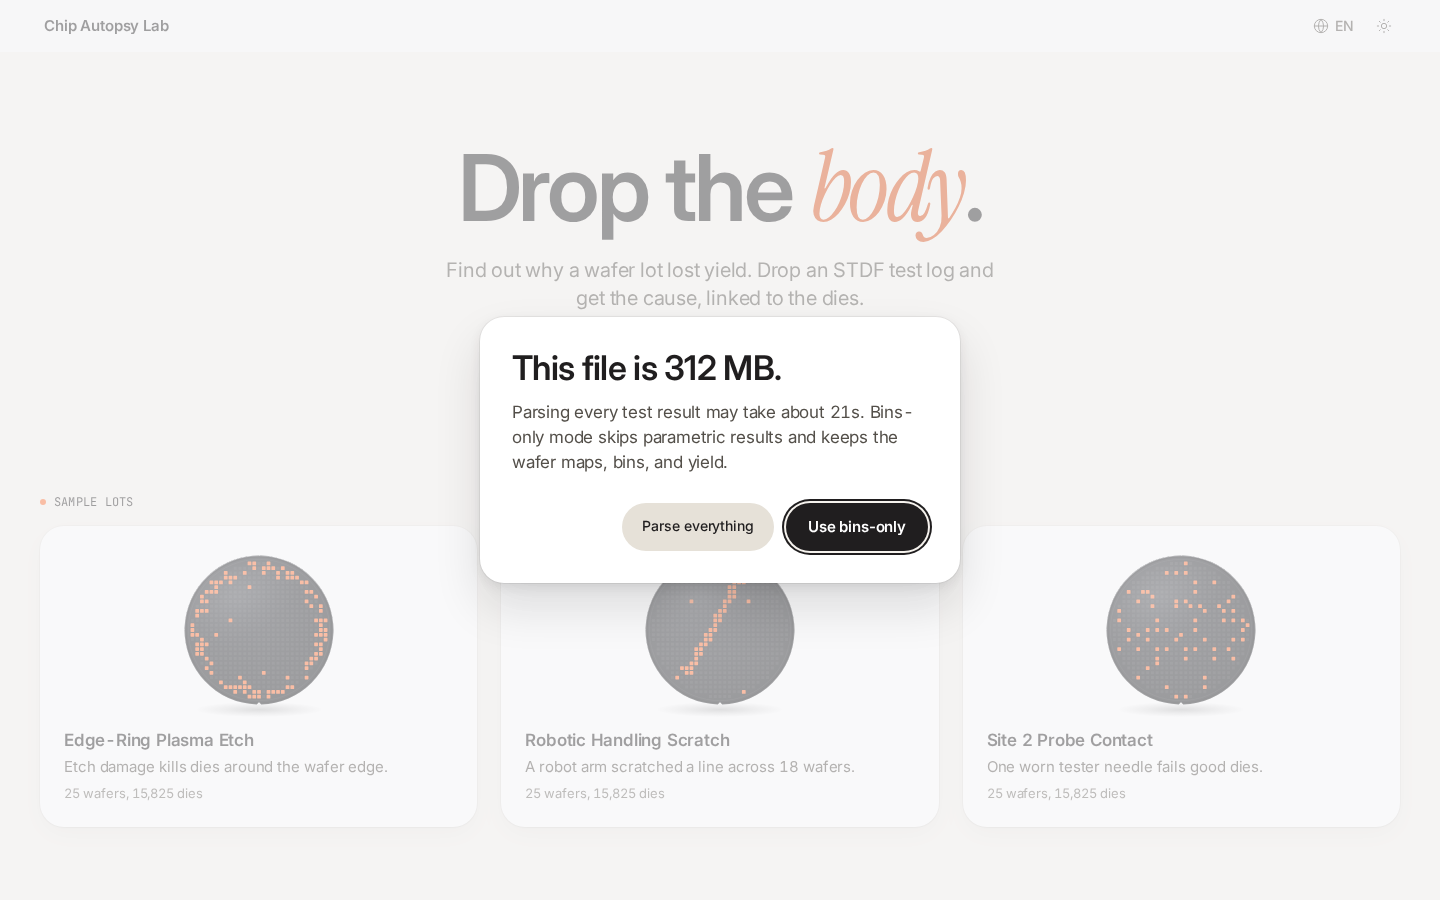
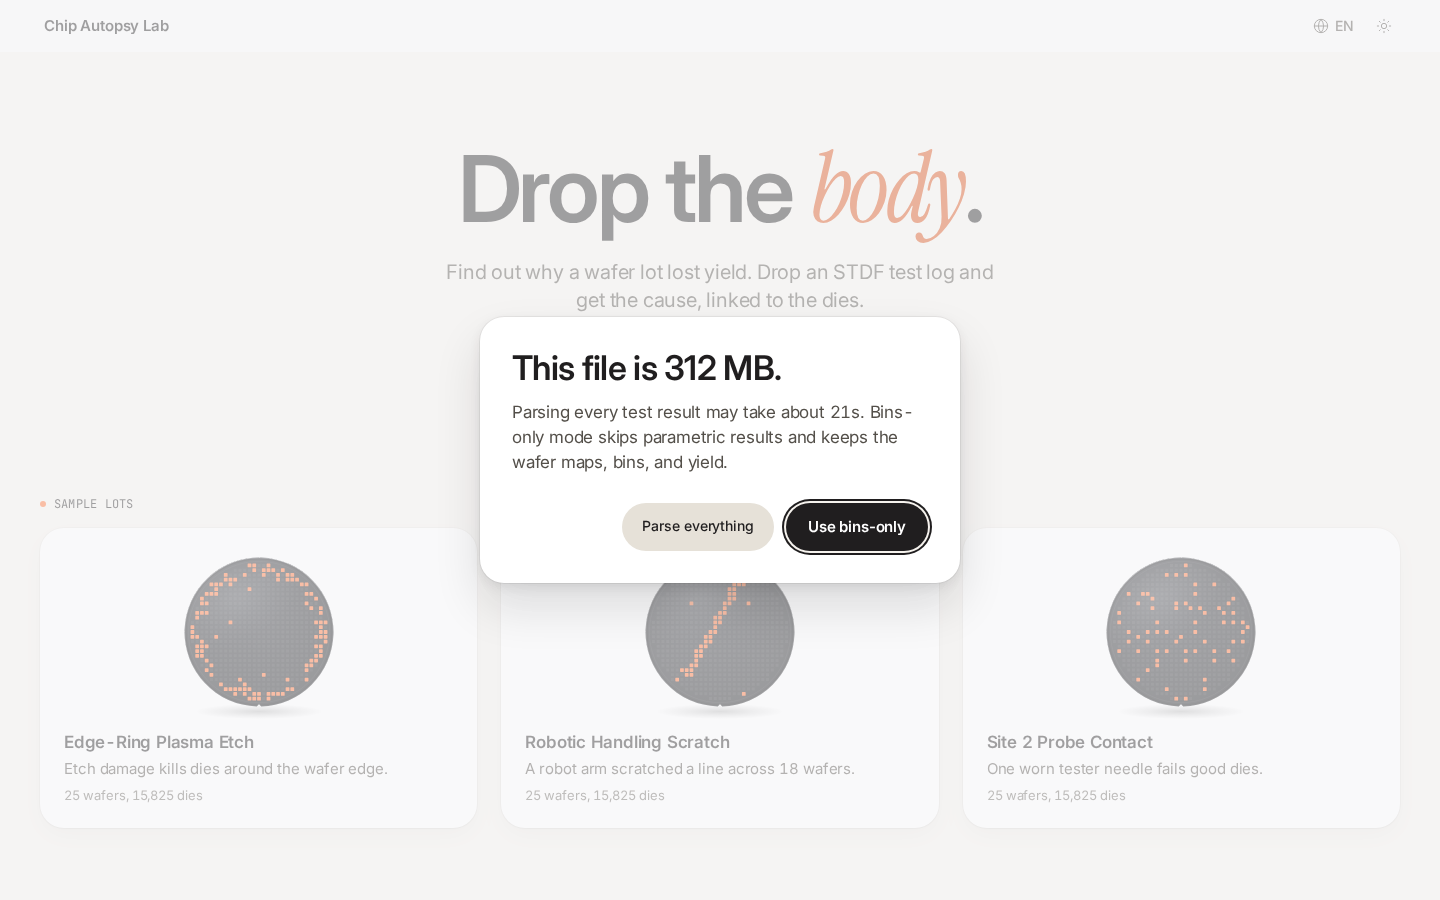
p26b-cont (Kiro claude-opus-5.5)

diff --git a/e2e/editorial-p26b.spec.ts b/e2e/editorial-p26b.spec.ts
@@ -18,6 +18,10 @@ async function open(page: Page, locale: string, loaded: boolean) {
   await page.setViewportSize({ width: 1440, height: 900 });
   await page.goto("/?nohints=1");
   await expect(page.getByTestId("landing-headline")).toBeVisible();
+  // The server renders English; wait for the stored locale to apply after hydration
+  if (locale !== "en") {
+    await expect(page.getByTestId("landing-headline")).not.toHaveText("Drop the body.");
+  }
   if (loaded) {
     await page.getByTestId("landing-open-sample-button").click();
     await expect(page.getByTestId("verdict-headline")).toBeVisible({ timeout: 5_000 });

diff --git a/src/ui/report/VerdictHero.tsx b/src/ui/report/VerdictHero.tsx
@@ -95,7 +95,9 @@ export function VerdictHero({
       const lineHeight = Number.isFinite(rawLineHeight)
         ? rawLineHeight
         : fontSize * 1.12;
-      if (el.scrollHeight > Math.ceil(maxLines * lineHeight + 6)) {
+      // clientHeight follows the line boxes; scrollHeight would also count the taller content
+      // area of the §12.2 serif accent glyphs, which overflows its line without adding a line.
+      if (el.clientHeight > Math.ceil(maxLines * lineHeight + 6)) {
         setStep((prev) => (prev === 0 ? 1 : 2));
       }
     };

diff --git a/logs/progress.md b/logs/progress.md
@@ -169,3 +169,8 @@
 - Findings follow premium §7.6 and §9.3. "Findings" label with a tertiary count; a `surface` card (`r-xl`, `shadow-card`, padding 4) of up to 3 rows, with "Show N more findings" for the rest. Rows are `16px 1fr auto` grids: kind icon (circle-dashed, minus at 30°, crosshair, activity, layers), a one-line headline (full text in `title`, 2 lines on mobile), a one-line sub-line, and count + chevron-down. Hover is `fill-1`; pressed is `fill-2` at 0.985; selected is `fill-2` with a primary icon, "Clear", and the chevron rotated 180°; focus uses the `focus-ring` token. The expanded body (padding 0 16 16 44) shows the engine sentence (3 lines), "Check next" with dotted steps, and the meta line "105 on this wafer, 2,552 on all 25 wafers". Possible causes is a 48 px boxless trigger with a count. Its open panel has the `causes.note` line and causes with "Based on finding 1" text buttons that select that finding. The open state persists per lot in `sessionStorage["cal.causes.v1"]`. Titles are now plain (e.g. "Leakage test IDDQ_LEAK is far off target", "One failure type causes 91.3% of the loss"); bin codes and Cpk moved to sub-lines. Core adds `FindingKind`, test-kind keys, and per-class pattern titles. Center, Donut, Edge-Loc, Loc, and Near-full spatial findings now get a pattern title instead of the lot-yield row. Keys renamed to `findings.label` and `causes.label`; 226 keys in all 5 locales.
 - Verified: typecheck and lint clean, `pnpm test` 292/292 (49 files). After a fresh build, e2e `findings-p19` (new, A27 + §7.6.5, light and dark, 4/4), `bin-pareto-task10`, `overlay-states-p8`, `typography-p4`, `vertical-slice`, `loaded-desktop-p12`, `loaded-responsive-p13`, `verdict-p17`, `stats-p18`, `wafer-stage-r6`, `yield-summary-task11`, and `wafer-strip-p9` pass. `wafer-strip-p9` failed once in the batch and passed on rerun. `linked-interactions-r7` hit only the known settle flake (824 ms vs 780). No snapshot changes.
 - Decisions (restrained): finding title keys keep the existing `findings.*.headline` identifiers with §9.3 values, so the claim message keys and glow logic do not change. "Clear" stays a label inside the row button, because nested buttons are invalid HTML; clicking it clears the row the same way. Every cause says "Based on finding 1", the finding that carries the check-next steps. The optional "Show in chart" and "Show this site" links, the Terms, and the §8.6 disclosure motion are left for P20, P21, P24, and P31. Single-wafer lots use "{lot} on this wafer" for the meta line.
+
+## 2026-11-18 — Premium P26b complete
+- Editorial accent per premium §12. Light `bg` is warm paper `#F6F3EE` with warm `fill-1/2`, hairlines, ink `#201E1F`, and re-derived secondary `#534F49` / tertiary `#6D6963`; `theme-color` follows. Instrument Serif italic 400 (`--font-accent`) and JetBrains Mono 400 (`--font-mono`, replacing Geist Mono) load via `next/font/local` from `@fontsource`. "body" in the landing headline and the verdict cause phrase are the one `.type-accent` word (1.06em, `ember-ink`), with none in zh/ja/ko (`isCjkLocale`, new `landing.headlineAccent` key in all 5 locales, 227 keys). The landing headline is clamp(56px, 6.4vw, 104px) / 0.98, the subline 20/28 max 560, sections 72 px apart. "Sample lots" is a mono 12/16 uppercase eyebrow after a 6 px ember dot, and lot/wafer IDs use `.font-mono-id`. This session fixed the verdict stepping down to 40 px in Latin locales: the serif glyphs' content area raised `scrollHeight` past the 2-line limit, so the check now uses `clientHeight` (line boxes only). It also made the CJK e2e wait for the stored locale to apply after hydration.
+- Verified: typecheck and lint clean, `pnpm test` 295/295 (50 files). After a fresh build, e2e `editorial-p26b` (A45–A48, 6/6), `landing-p11`, `landing-r4`, `theme-p3`, `theme-tokens-p2`, `loading-error-p14`, `nav-p16`, `primitives-p15`, `stats-p18`, `vertical-slice`, `verdict-p17`, `typography-p4`, `disc-material-p5`, `die-tiles-p6`, `stage-shadows-p7`, `loaded-desktop-p12`, and `loaded-responsive-p13` pass. No snapshot changes.
+- Decisions (restrained): §12.1 names no values for `surface-sunken`, `material`, or `scrim`, so they keep their §3.2 values; dark `text-primary` stays unchanged (§12.1 says "may"). The wafer stage keeps the page bg. The reticle labels and the "Example result" eyebrow do not exist until P26a, which should use `.type-mono-note` for them. Magnifier coordinates are already mono (`type-mono-data`); the §7.15 magnifier rework is left to its own task. The 72 px gaps push the landing footer line below the 900 px fold; the e2e checks now require only the content above it to fit.

diff --git a/.kiro/specs/chip-autopsy-lab/tasks.md b/.kiro/specs/chip-autopsy-lab/tasks.md
@@ -306,7 +306,7 @@ Specification: `.kiro/specs/chip-autopsy-lab/premium.md` (supersedes `redesign.m
 - [ ] P26a. Landing hero and sample tiles (inspiration deltas)
   - Hero wafer with probe-station reticle and example result card; sample cards as tiles with captions outside and pattern chips (premium §11.1, §11.2). Also apply §11.3 in P20, §11.4 in P25, §11.5 in P28 when those run.
   - Accept: A41, A42.
-- [ ] P26b. Editorial accent pass
+- [x] P26b. Editorial accent pass
   - Warm paper bg, one italic serif accent word, bigger landing headline, mono instrument notes (premium §12). Update e2e colour/contrast expectations that the new tokens change.
   - Fonts are already installed (no network needed): load via next/font/local from node_modules/@fontsource/instrument-serif/files/instrument-serif-latin-400-italic.woff2 and node_modules/@fontsource/jetbrains-mono/files/jetbrains-mono-latin-400-normal.woff2 (both OFL).
   - Accept: A45, A46, A47, A48, and A1–A10 still pass.
